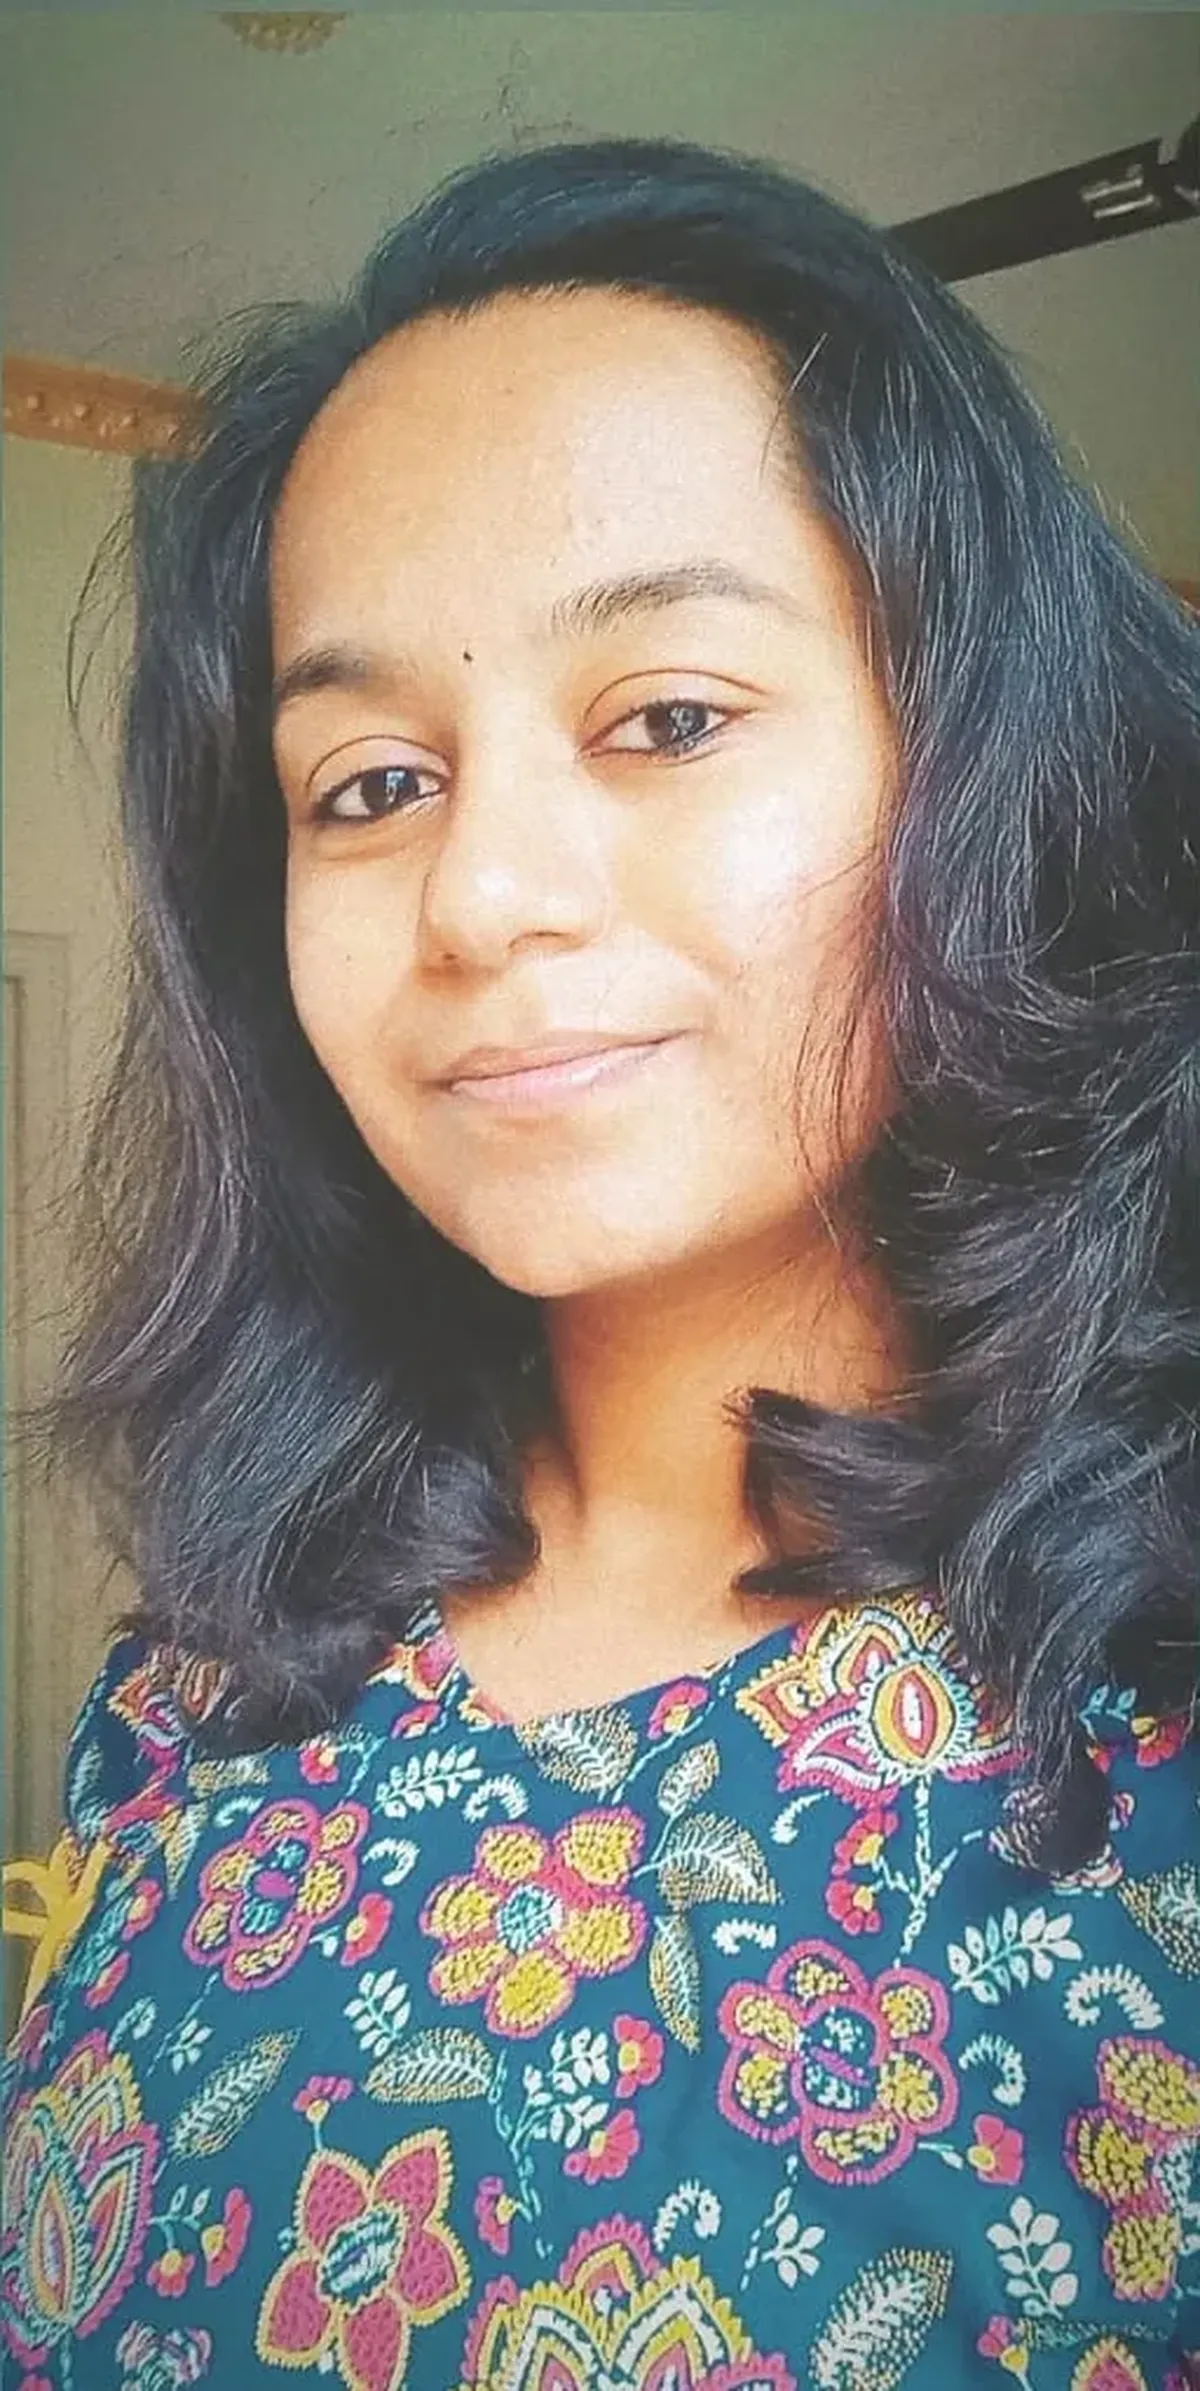
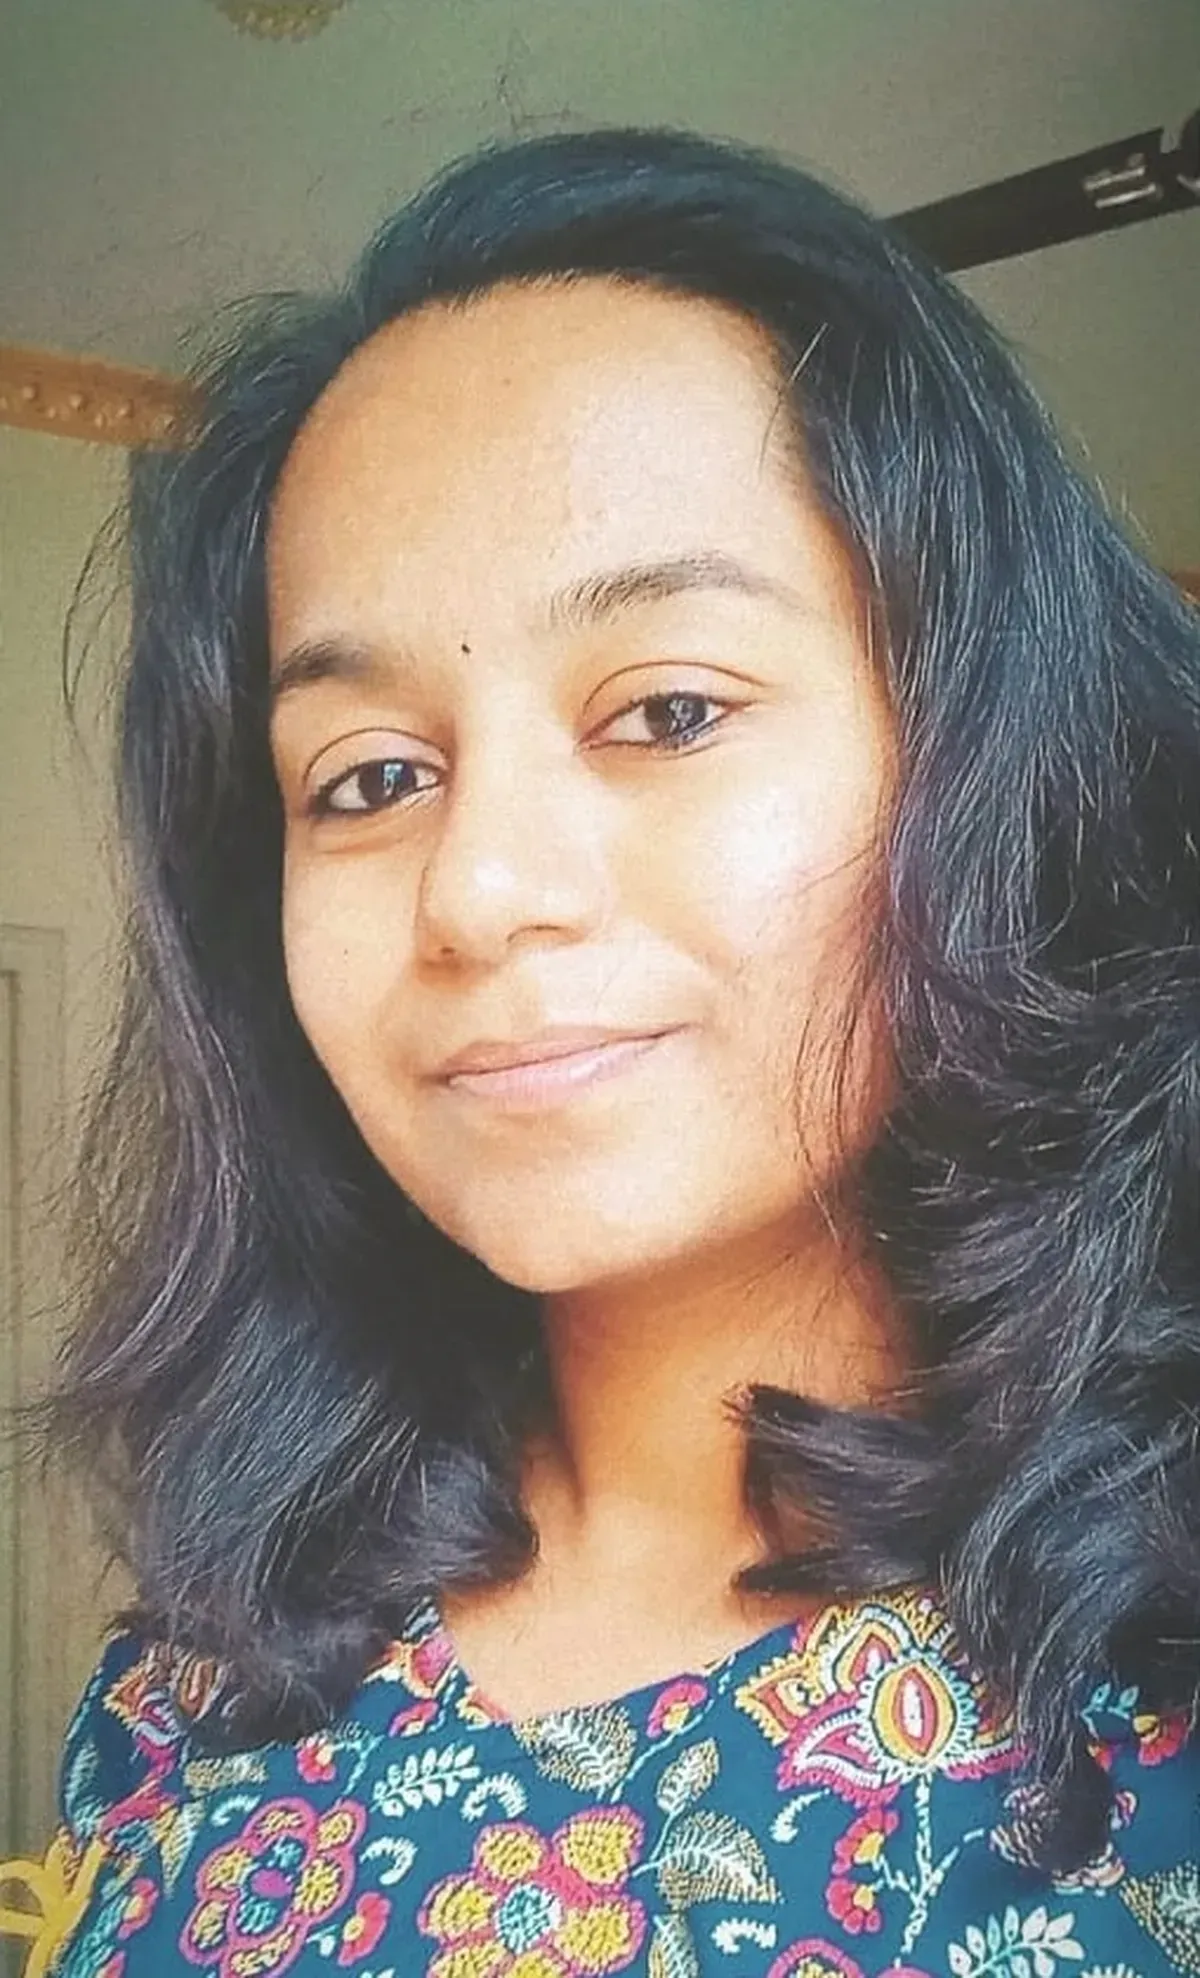
ratio update

diff --git a/src/components/cards/PersonCardFolding.jsx b/src/components/cards/PersonCardFolding.jsx
@@ -11,7 +11,7 @@ const PersonCard = (props) => {
             ""
           ) : (
             <div
-              className=" w-full h-full bg-cover hover:opacity-0 duration-150 absolute bg-center"
+              className=" w-full h-full bg-cover hover:opacity-0 duration-150 absolute bg-top"
               style={{ backgroundImage: `url(${props.src})` }}
             />
           )}
